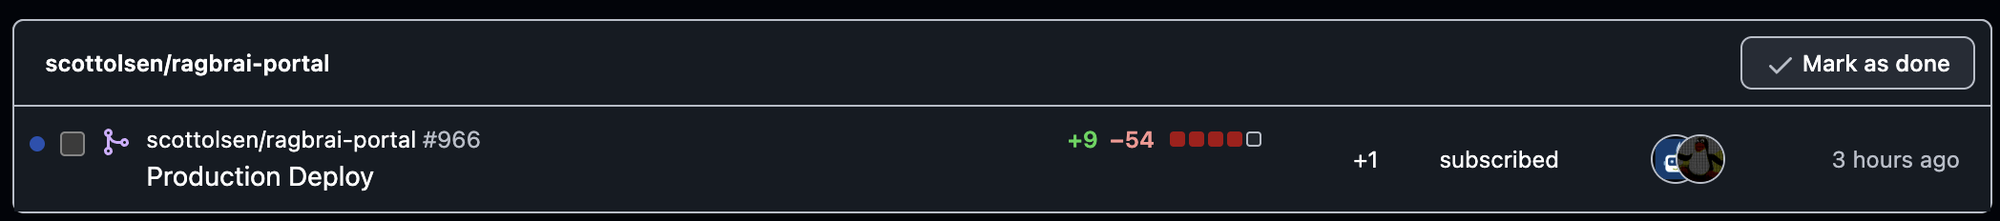
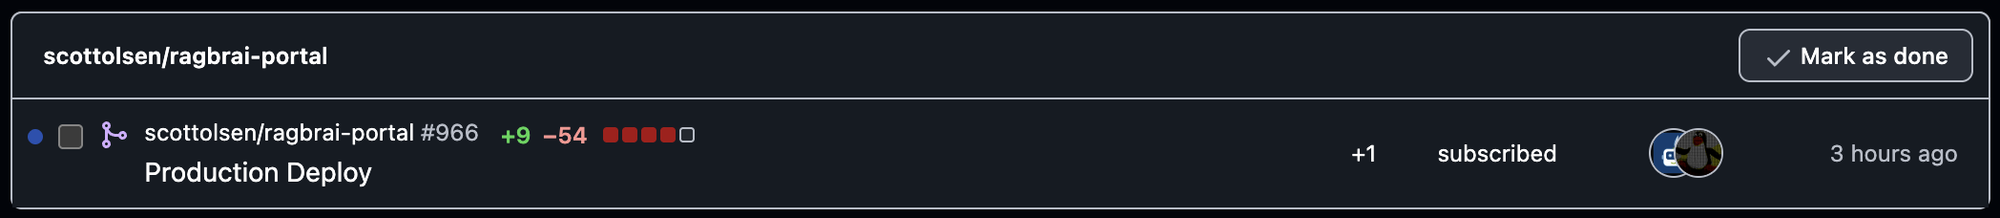
docs: update README screenshot for the new badge placement

diff --git a/README.md b/README.md
@@ -5,7 +5,7 @@ A Chrome extension that shows the size of each pull request on
 deletions, and GitHub's five-block diffstat, right after the PR number in
 each notification row.
 
-![A notification row showing +9 −54 and four red diffstat blocks next to the reason and timestamp](screenshot.png)
+![A notification row showing +9 −54 and four red diffstat blocks right after the PR number](screenshot.png)
 
 Then you can tell a one-line fix from a 2,000-line refactor before you open it.
 
